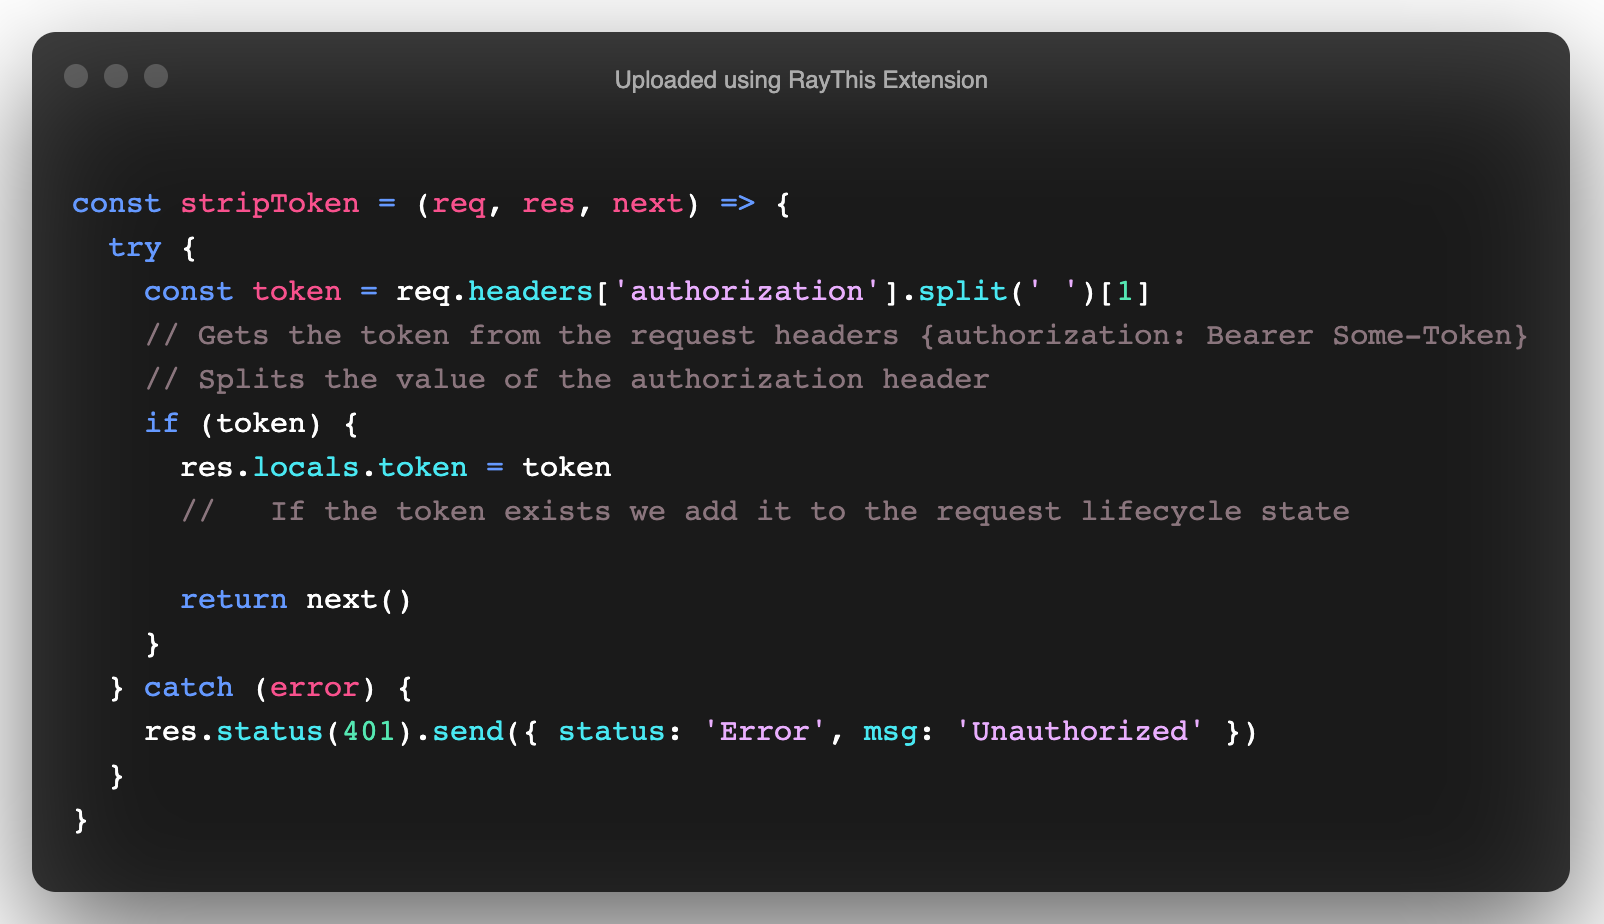
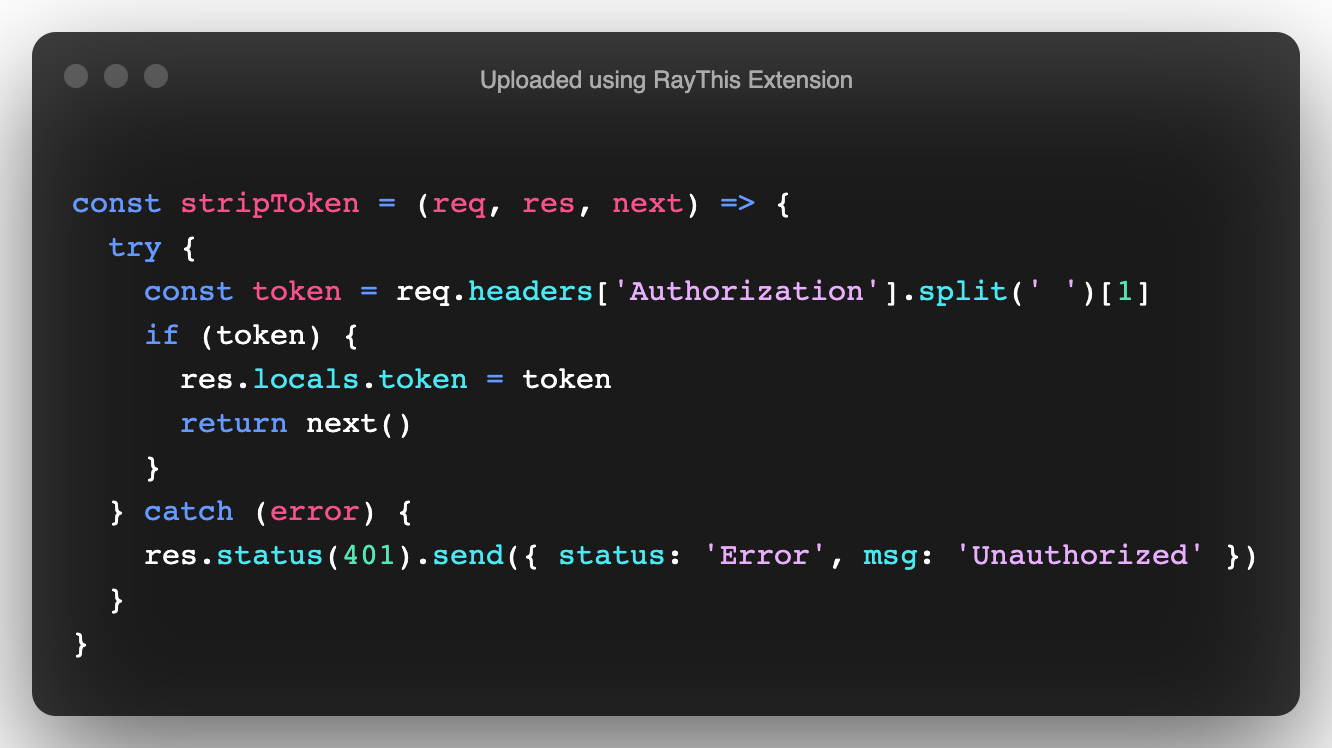
update snippets

diff --git a/app.js b/app.js
@@ -16,3 +16,16 @@ app.use('/auth', AuthRouter)
 app.use('/posts', PostRouter)
 
 app.listen(PORT, () => console.log(`Server Running On Port: ${PORT}`))
+
+const verifyToken = (req, res, next) => {
+  const { token } = res.locals
+  try {
+    let payload = jwt.verify(token, APP_SECRET)
+    if (payload) {
+      return next()
+    }
+    res.status(401).send({ status: 'Error', msg: 'Unauthorized' })
+  } catch (error) {
+    res.status(401).send({ status: 'Error', msg: 'Unauthorized' })
+  }
+}

diff --git a/README.md b/README.md
@@ -140,11 +140,15 @@ Add a function called `verifyToken`:
 ```js
 const verifyToken = (req, res, next) => {
   const { token } = res.locals
-  let payload = jwt.verify(token, APP_SECRET)
-  if (payload) {
-    return next()
+  try {
+    let payload = jwt.verify(token, APP_SECRET)
+    if (payload) {
+      return next()
+    }
+    res.status(401).send({ status: 'Error', msg: 'Unauthorized' })
+  } catch (error) {
+    res.status(401).send({ status: 'Error', msg: 'Unauthorized' })
   }
-  res.status(401).send({ status: 'Error', msg: 'Unauthorized' })
 }
 ```
 
@@ -164,7 +168,7 @@ Add a function called `stripToken`:
 ```js
 const stripToken = (req, res, next) => {
   try {
-    const token = req.headers['authorization'].split(' ')[1]
+    const token = req.headers['Authorization'].split(' ')[1]
     if (token) {
       res.locals.token = token
       return next()
